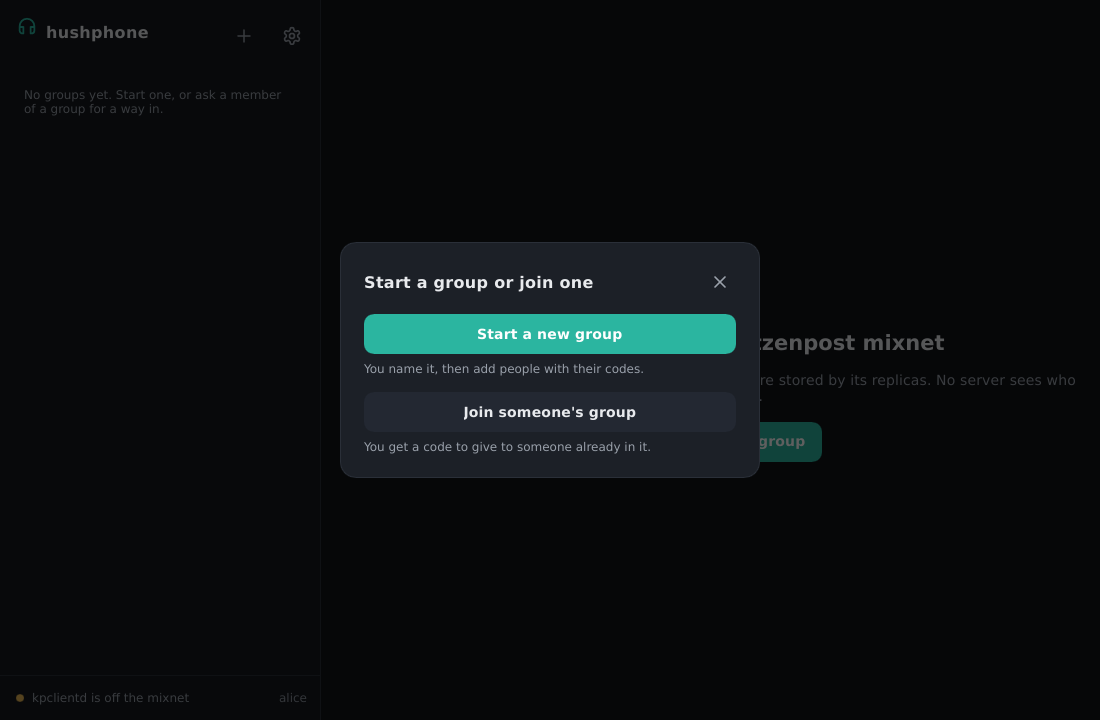
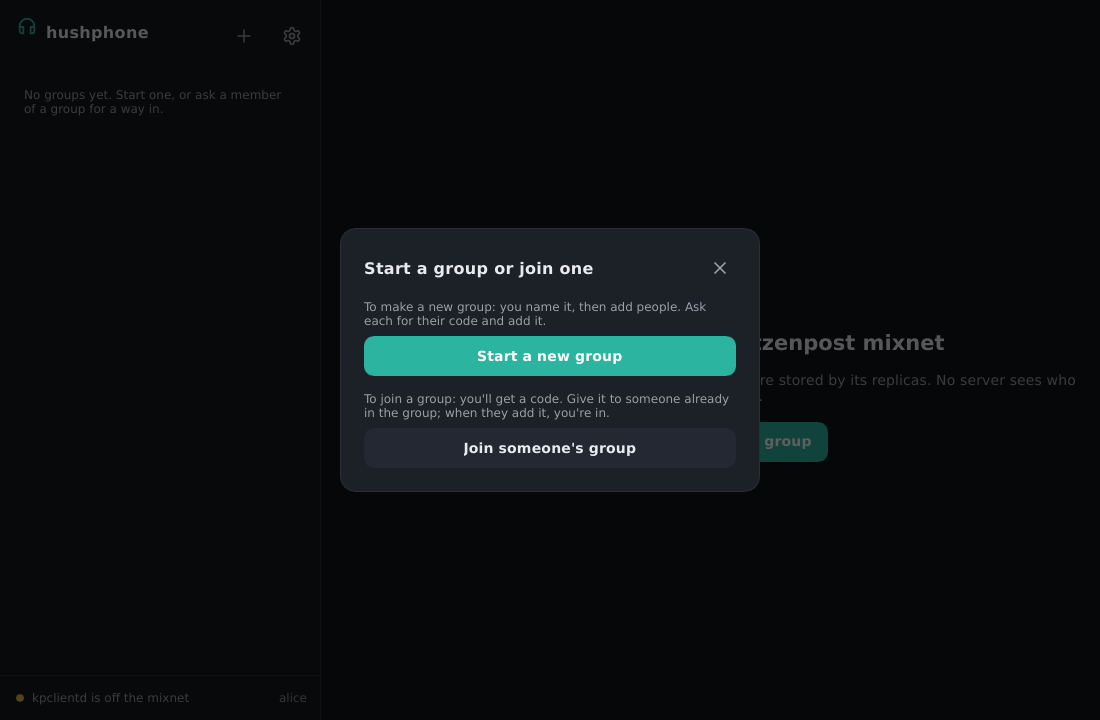
Guide each empty state to the next step
With no groups, one Create or join a group button (in the group pane on a
phone); with groups but none open, Select a group to start; in a group of
one, how to add someone. The hints state which way the code goes: a joiner
makes it and gives it to a member, who adds it.

Closes #76

diff --git a/tests/ui.rs b/tests/ui.rs
@@ -34,7 +34,7 @@ fn button(ui: &AppWindow, label: &str) -> ElementHandle {
 #[test]
 fn controls_settle_before_they_act() {
     let ui = window();
-    let new_group = button(&ui, "Start or join a group");
+    let new_group = button(&ui, "Create or join a group");
     // A click the moment the button appears goes nowhere: it may have been meant for whatever
     // was under the pointer a moment before.
     new_group.mock_single_click(PointerEventButton::Left);
@@ -132,6 +132,40 @@ fn cancel_adding_from_the_header() {
     assert_eq!(cancelled.get(), 1);
 }
 
+fn shown(ui: &AppWindow, label: &str, role: i_slint_backend_testing::AccessibleRole) -> usize {
+    ElementHandle::find_by_accessible_label(ui, label).filter(|e| e.accessible_role() == Some(role)).count()
+}
+
+/// Each empty state says what to do next: no groups offers one way in, groups but none open asks
+/// for one, and a group of one says how to add someone. On a phone the group pane carries them.
+#[test]
+fn empty_states_guide_the_next_step() {
+    use i_slint_backend_testing::AccessibleRole::{Button, Text};
+    let ui = window();
+    let st = ui.global::<AppState>();
+    assert_eq!(shown(&ui, "Create or join a group", Button), 1);
+    assert_eq!(shown(&ui, "Select a group to start.", Text), 0);
+    ui.window().set_size(LogicalSize::new(400.0, 720.0));
+    assert_eq!(shown(&ui, "Create or join a group", Button), 1, "on a phone, in the group pane");
+    ui.window().set_size(LogicalSize::new(1100.0, 720.0));
+
+    let chat = ChatItem { id: "g".into(), name: "friends".into(), ..Default::default() };
+    st.set_chats(ModelRc::new(VecModel::from(vec![chat])));
+    assert_eq!(shown(&ui, "Select a group to start.", Text), 1);
+    assert_eq!(shown(&ui, "Create or join a group", Button), 0);
+    ui.window().set_size(LogicalSize::new(400.0, 720.0));
+    assert_eq!(shown(&ui, "Select a group to start.", Text), 1, "on a phone, in the group pane");
+    ui.window().set_size(LogicalSize::new(1100.0, 720.0));
+
+    let alone = "No one else is here yet. Ask someone for their code, then add it with the add-member icon above.";
+    st.set_current("g".into());
+    st.set_current_name("friends".into());
+    st.set_current_joined(true);
+    assert_eq!(shown(&ui, alone, Text), 1);
+    st.set_current_members(1);
+    assert_eq!(shown(&ui, alone, Text), 0);
+}
+
 #[test]
 fn every_button_has_a_label() {
     let ui = window();
@@ -147,11 +181,11 @@ fn every_button_has_a_label() {
 #[test]
 fn a_control_that_moves_must_settle_again() {
     let ui = window();
-    let new_group = button(&ui, "Start or join a group");
+    let new_group = button(&ui, "Create or join a group");
     mock_elapsed_time(Duration::from_millis(600));
     // The window changes size, and the button moves under a pointer that was aimed elsewhere.
     ui.window().set_size(LogicalSize::new(900.0, 720.0));
-    let moved = button(&ui, "Start or join a group");
+    let moved = button(&ui, "Create or join a group");
     moved.mock_single_click(PointerEventButton::Left);
     assert_eq!(ui.get_overlay(), Overlay::None, "a click on a control that just moved is ignored");
     mock_elapsed_time(Duration::from_millis(600));

diff --git a/tests/ui_flow.rs b/tests/ui_flow.rs
@@ -78,7 +78,7 @@ fn make_a_group_and_talk() {
         until("the link", || st.get_connection() == Connection::Online).await;
         assert_eq!(st.get_my_name(), "alice");
 
-        settled(&ui, "Start or join a group", AccessibleRole::Button).await.single_click(PointerEventButton::Left).await;
+        settled(&ui, "Create or join a group", AccessibleRole::Button).await.single_click(PointerEventButton::Left).await;
         settled(&ui, "Start a new group", AccessibleRole::Button).await.single_click(PointerEventButton::Left).await;
         let field = ElementHandle::find_by_element_type_name(&ui, "LineEdit").next().expect("a name field");
         let input = field

diff --git a/docs/using.md b/docs/using.md
@@ -1,7 +1,7 @@
 # Using hushphone
 
-- **Start a group** with Start or join a group, then Start a new group. Only you see the name you give it.
-- **Join someone's group** with Start or join a group, then Join someone's group. hushphone mints a voucher, over the mixnet or the mesh, and
+- **Start a group** with Create or join a group, then Start a new group. Only you see the name you give it.
+- **Join someone's group** with Create or join a group, then Join someone's group. hushphone mints a voucher, over the mixnet or the mesh, and
   shows its code. Give the code to a member of the group over a channel you trust; when they add it with
   Add a member, you join. [vouchers.md](vouchers.md) walks through both sides with
   screenshots.

diff --git a/docs/vouchers.md b/docs/vouchers.md
@@ -18,7 +18,7 @@ already share. Never post it.
 
 ## The newcomer: get a voucher
 
-Open the **+** menu, choose **Start or join a group**, then **Join someone's group**. The name you give is yours alone; members name the
+Open the **+** menu, choose **Create or join a group**, then **Join someone's group**. The name you give is yours alone; members name the
 group for themselves.
 
 ![Start a group or join one](vouchers/start-dialog.png)
